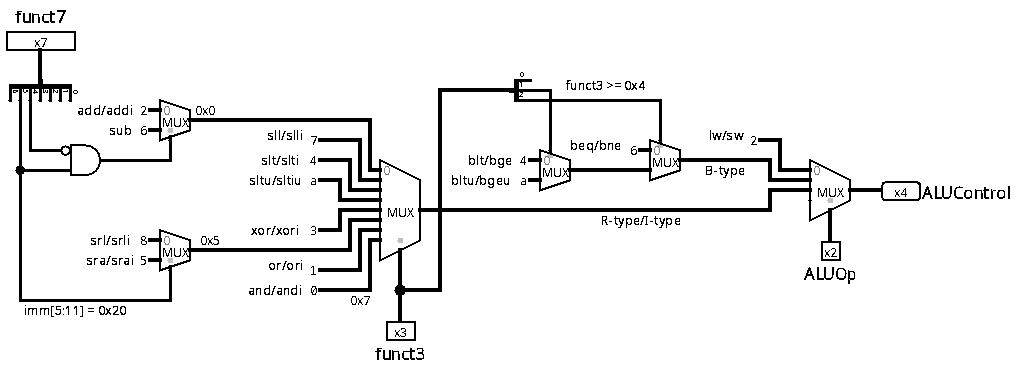
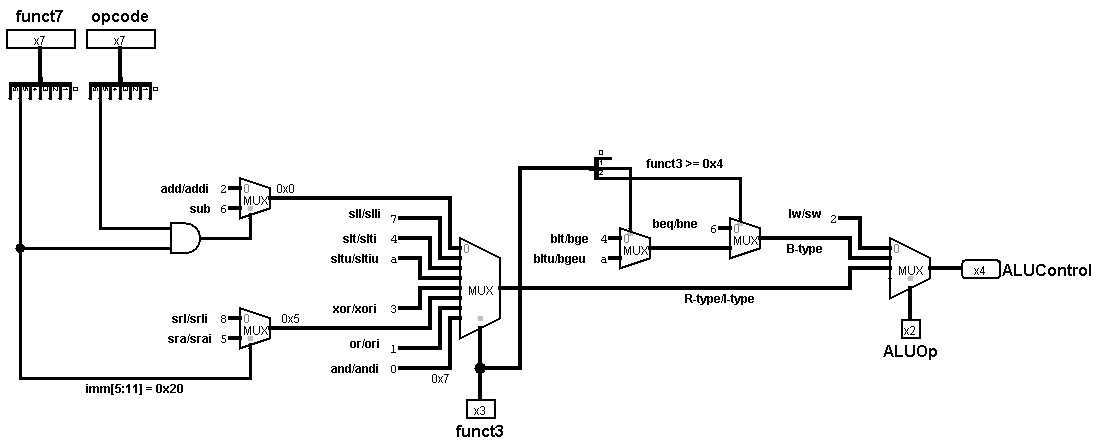
docs(ucULA): image & READMEs addi-sub change

Changed region(s): [[0.0, 0.0, 1.0, 0.9811], [0.5498, 0.2081, 0.6414, 0.2378], [0.7025, 0.3568, 0.7635, 0.3865]]

diff --git a/componentes/ucULA/README.md b/componentes/ucULA/README.md
@@ -2,7 +2,7 @@
 
 ![Circuito da Unidade de Controle da ULA](ucULA_imagem.png)
 
-A Unidade de Controle da ULA (`ucULA`) é o componente encarregado de determinar a operação exata que a Unidade Lógica e Aritmética (ULA) deve executar. Para isso, ela decodifica e combina o sinal de controle geral `ALUOp` (fornecido pela unidade de controle principal) com os campos `funct3` e `funct7` da instrução.
+A Unidade de Controle da ULA (`ucULA`) é o componente encarregado de determinar a operação exata que a Unidade Lógica e Aritmética (ULA) deve executar. Para isso, ela decodifica e combina o sinal de controle geral `ALUOp` (fornecido pela unidade de controle principal) com os campos `opcode`, `funct3` e `funct7` da instrução.
 
 <br>
 
@@ -10,6 +10,7 @@ A Unidade de Controle da ULA (`ucULA`) é o componente encarregado de determinar
 
 | Pino | Direção | Largura | Descrição |
 | :--- | :---: | :---: | :--- |
+| `opcode` | Entrada | 7 bits | Código de operação da instrução, usado para distinguir o formato Tipo R do Tipo I. |
 | `funct7` | Entrada | 7 bits | Campo da instrução usado para diferenciar variações de operações com o mesmo `funct3`. |
 | `funct3` | Entrada | 3 bits | Campo da instrução que atua como seletor primário da operação. |
 | `ALUOp` | Entrada | 2 bits | Categoria geral da instrução (`00` para memória, `01` para desvios, `10` para lógico-aritméticas). |
@@ -21,22 +22,22 @@ A Unidade de Controle da ULA (`ucULA`) é o componente encarregado de determinar
 
 A tabela a seguir orienta como a `ucULA` decodifica suas entradas para gerar o sinal de saída `ALUControl`:
 
-| Categoria da Instrução | ALUOp | funct3 | funct7 (bit 5 / bit 4) | ALUControl | Operação da ULA |
-| :--- | :---: | :---: | :---: | :---: | :--- |
-| **Memória** (`lw`/`sw`) | `00` | `X` | `X` | `2` | Soma (`add`) |
-| **Desvio** (`beq`/`bne`) | `01` | `000` / `001` | `X` | `6` | Subtração (`sub`) |
-| **Desvio** (`blt`/`bge`) | `01` | `100` / `101` | `X` | `4` | Comparação com sinal (`slt`) |
-| **Desvio** (`bltu`/`bgeu`) | `01` | `110` / `111` | `X` | `a` | Comparação sem sinal (`sltu`) |
-| **Lógico-aritmética** | `10` | `000` | `0` / `X` (ou Tipo I) | `2` | Soma (`add`) |
-| **Lógico-aritmética** | `10` | `000` | `1` / `0` (Tipo R) | `6` | Subtração (`sub`) |
-| **Lógico-aritmética** | `10` | `111` | `X` | `0` | AND bit a bit (`and`) |
-| **Lógico-aritmética** | `10` | `110` | `X` | `1` | OR bit a bit (`or`) |
-| **Lógico-aritmética** | `10` | `100` | `X` | `3` | XOR bit a bit (`xor`) |
-| **Lógico-aritmética** | `10` | `001` | `X` | `7` | Deslocamento lógico à esquerda (`sll`) |
-| **Lógico-aritmética** | `10` | `101` | `0` / `X` | `8` | Deslocamento lógico à direita (`srl`) |
-| **Lógico-aritmética** | `10` | `101` | `1` / `X` | `5` | Deslocamento aritmético à direita (`sra`) |
+| Categoria da Instrução | ALUOp | funct3 | opcode (bit 5) | funct7 (bit 5) | ALUControl | Operação da ULA |
+| :--- | :---: | :---: | :---: | :---: | :---: | :--- |
+| **Memória** (`lw`/`sw`) | `00` | `X` | `X` | `X` | `2` | Soma (`add`) |
+| **Desvio** (`beq`/`bne`) | `01` | `000` / `001` | `X` | `X` | `6` | Subtração (`sub`) |
+| **Desvio** (`blt`/`bge`) | `01` | `100` / `101` | `X` | `X` | `4` | Comparação com sinal (`slt`) |
+| **Desvio** (`bltu`/`bgeu`) | `01` | `110` / `111` | `X` | `X` | `a` | Comparação sem sinal (`sltu`) |
+| **Lógico-aritmética** (`add`/`addi`) | `10` | `000` | `X` | `0` | `2` | Soma (`add`) |
+| **Lógico-aritmética** (`sub`) | `10` | `000` | `1` (Tipo R) | `1` | `6` | Subtração (`sub`) |
+| **Lógico-aritmética** | `10` | `111` | `X` | `X` | `0` | AND bit a bit (`and`) |
+| **Lógico-aritmética** | `10` | `110` | `X` | `X` | `1` | OR bit a bit (`or`) |
+| **Lógico-aritmética** | `10` | `100` | `X` | `X` | `3` | XOR bit a bit (`xor`) |
+| **Lógico-aritmética** | `10` | `001` | `X` | `X` | `7` | Deslocamento lógico à esquerda (`sll`) |
+| **Lógico-aritmética** | `10` | `101` | `X` | `0` | `8` | Deslocamento lógico à direita (`srl`) |
+| **Lógico-aritmética** | `10` | `101` | `X` | `1` | `5` | Deslocamento aritmético à direita (`sra`) |
 
-> `X` indica que o valor do bit correspondente não interfere na saída.
+> `X` indica que o valor do bit correspondente não interfere na saída. O **bit 5 do `opcode`** vale `1` em instruções Tipo R e `0` em instruções Tipo I, sendo a chave para separar `sub` de `addi`.
 
 <br>
 
@@ -62,11 +63,18 @@ Para instruções do Tipo R e Tipo I, a `ucULA` utiliza o `funct3` como seletor 
 
 #### A diferenciação entre `addi` e `sub`
 Um ponto crítico do circuito é a instrução `addi` (Tipo I) e a instrução `sub` (Tipo R). Ambas compartilham `ALUOp = 10` e `funct3 = 000`.
-*   As instruções do Tipo I **não possuem o campo `funct7`**. O espaço da instrução correspondente ao `funct7` é preenchido pelo valor imediato.
-*   Se o processador executa um `addi` com um imediato que possui bit 30 (bit 5 do `funct7`) em nível alto (`1`), o circuito poderia interpretar erroneamente a operação como uma subtração (`sub`).
+- **As instruções do Tipo I não possuem o campo `funct7`**. O espaço da instrução correspondente ao `funct7` é preenchido pelo valor imediato.
+- Se o processador executa um `addi` com um imediato que possui o bit 30 (bit 5 do `funct7`) em nível alto (`1`), o circuito poderia interpretar erroneamente a operação como uma subtração (`sub`).
 
 ##### Solução
-Para evitar este falso positivo, o circuito executa uma operação AND lógica entre o **bit 5** e a **negação do bit 4** do campo `funct7`. Como no `sub` do Tipo R o bit 5 é `1` e o bit 4 é `0`, a condição é satisfeita exclusivamente para a instrução de subtração verdadeira.
+Para distinguir as duas instruções com segurança, o circuito recorre ao `opcode`, que é o único campo capaz de identificar o tipo da instrução de forma confiável:
+
+- O bit 5 do `opcode` vale `1` para instruções Tipo R (`opcode = 0110011`, como o `sub`) e `0` para instruções Tipo I (`opcode = 0010011`, como o `addi`).
+- O bit 5 do `funct7` (bit 30 da instrução) vale `1` no `sub` e `0` no `add`.
+
+A saída de subtração só é selecionada quando o circuito executa uma operação AND entre o **bit 5 do `opcode`** e o **bit 5 do `funct7`**:
+
+**Por que usar ambos?** Mesmo que um `addi` carregue um imediato cujo bit 30 esteja em `1` (o que ativaria `funct7[5]`), o `addi` é Tipo I e portanto tem `opcode[5] = 0`. Com um dos operandos do AND zerado, a condição de subtração nunca é satisfeita por engano, e a saída permanece em soma (`2`). A condição só é verdadeira para uma instrução `sub` confirmada, que é simultaneamente Tipo R (`opcode[5] = 1`) e possui `funct7[5] = 1`.
 
 <br>
 
@@ -75,5 +83,5 @@ Para evitar este falso positivo, o circuito executa uma operação AND lógica e
 A `ucULA` é construída de forma puramente combinacional por meio dos seguintes blocos:
 
 - **Multiplexadores:** organizados para selecionar a operação da ULA com base no `funct3` e, finalmente, no `ALUOp`.
-- **Portas Lógicas:** portas AND e inversores que decodificam os bits específicos de `funct7` e filtram interferências do Tipo I.
+- **Portas Lógicas:** uma porta AND que combina o **bit 5 do `opcode`** com o **bit 5 do `funct7`** para decodificar a subtração real e filtrar as interferências do Tipo I.
 - **Constantes:** valores fixos hexadecimais (ex: `2`, `6`, `4`, `a`, `0`, `1`, `3`, `7`, `8`, `5`) mapeados para os seletores da ULA.
